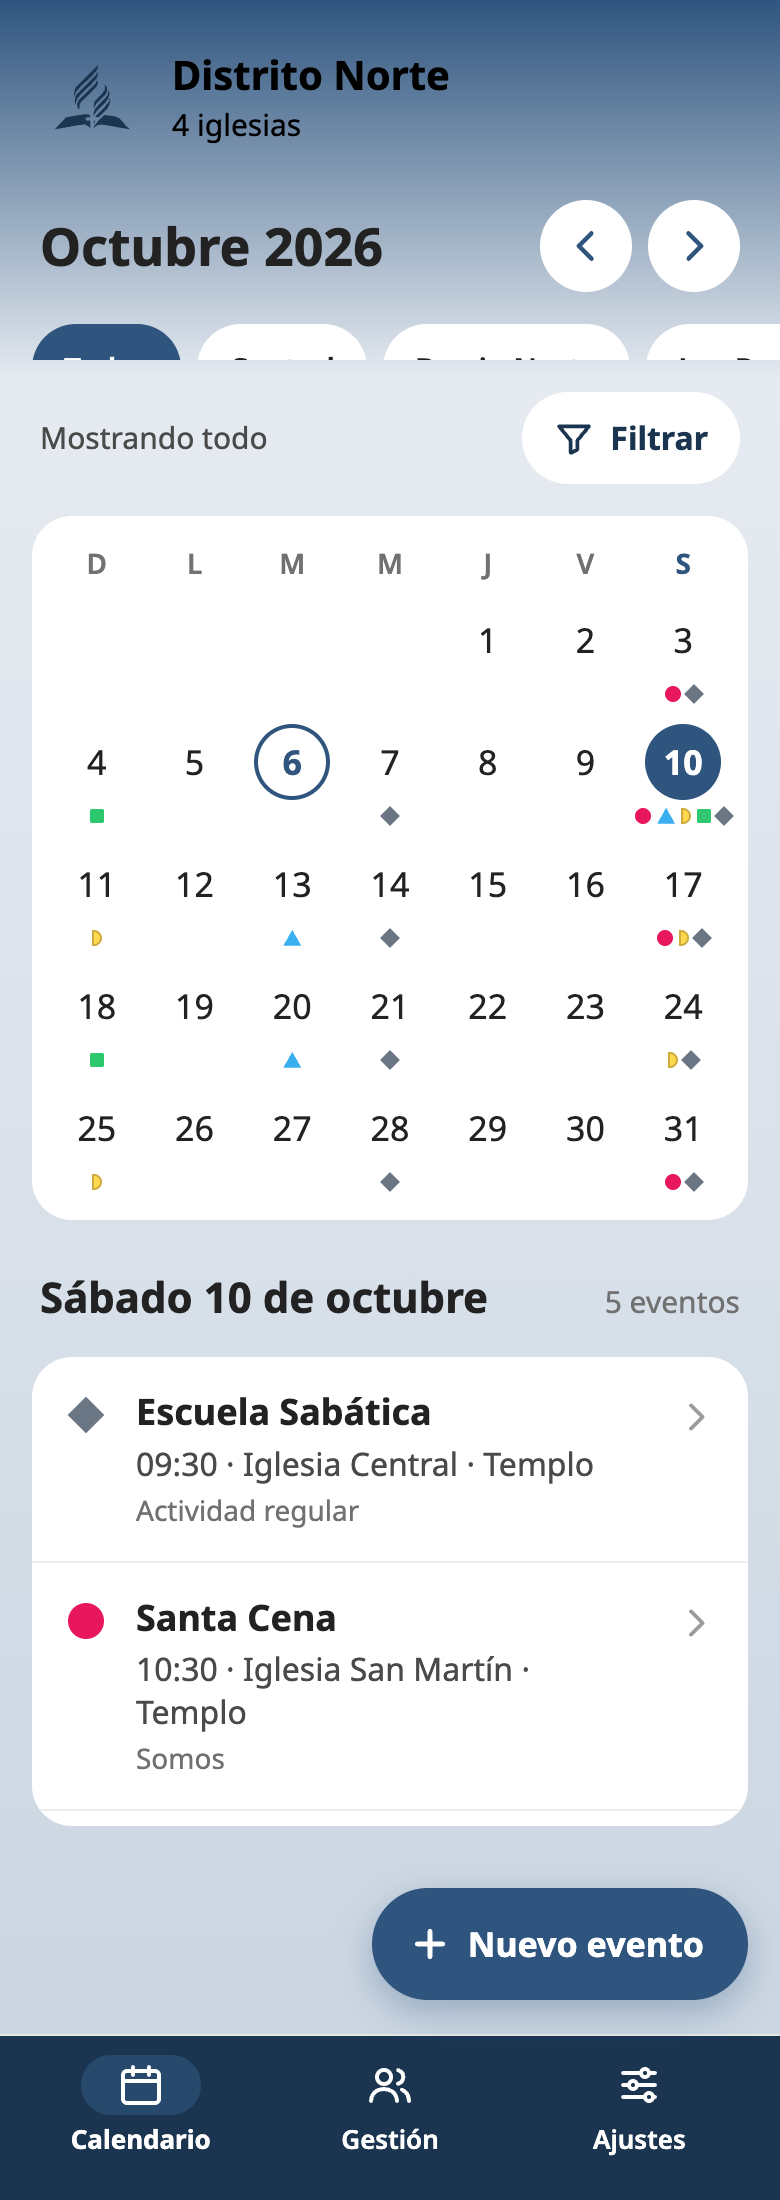
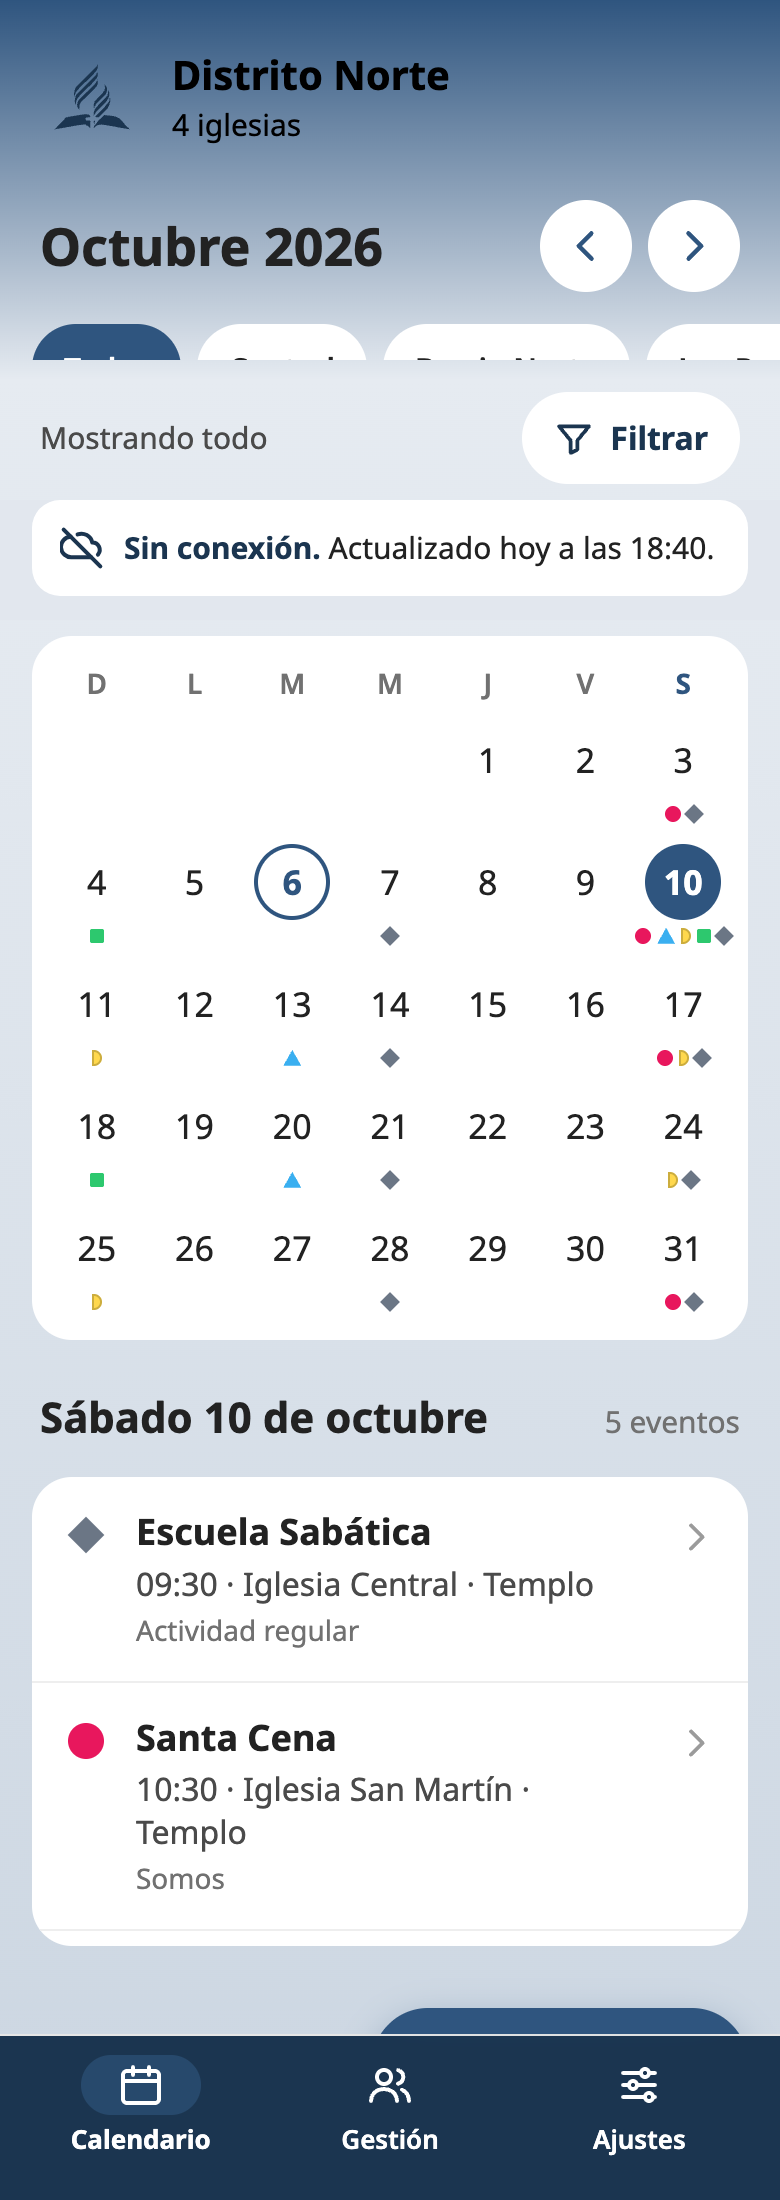
docs(diseno): add the offline line to Calendario (#39)
Show "Sin conexión. Actualizado …" above the grid only while offline,
with the date of the last successful download.

diff --git a/diseno/pantallas/04a-calendario.html b/diseno/pantallas/04a-calendario.html
@@ -61,6 +61,14 @@ body{margin:0}
       </button>
     </div>
 
+    <!-- Offline (#27): shown only without connection, with the date of the last successful download. -->
+    <sc-if value="{{ sinConexion }}" hint-placeholder-val="{{ true }}">
+      <div role="status" style="display: flex; align-items: center; gap: 10px; min-height: 48px; box-sizing: border-box; padding: 8px 14px; border-radius: 14px; background: #FFFFFF; color: #1B3550">
+        <svg width="22" height="22" viewBox="0 0 24 24" fill="none" stroke="currentColor" stroke-width="2.2" stroke-linecap="round" stroke-linejoin="round" style="flex-shrink: 0"><path d="M2 2l20 20"></path><path d="M5.8 5.8A5.5 5.5 0 0 0 6.5 17H17"></path><path d="M9.6 4.6A6 6 0 0 1 17.6 9 4 4 0 0 1 20.7 15.6"></path></svg>
+        <span style="font-size: 15px; line-height: 1.35; color: #222222"><span style="font-weight: 700; color: #1B3550">Sin conexión.</span> {{ actualizado }}</span>
+      </div>
+    </sc-if>
+
     <div style="background: #FFFFFF; border-radius: 20px; padding: 14px 8px 10px">
       <div aria-hidden="true" style="display: grid; grid-template-columns: repeat(7, minmax(0, 1fr)); padding-bottom: 6px">
         <span style="text-align: center; font-size: 14px; font-weight: 600; color: #717171">D</span>
@@ -272,6 +280,12 @@ class Component extends DCLogic {
     }));
     const ocultos = KEYS.filter((k) => off[k]).length;
     const mostrados = KEYS.filter((k) => !off[k]).map((k) => META[k].lema);
+    // Last successful download: "hoy" and "ayer" by name, older dates in full.
+    const sinConexion = st.sinConexion !== false;
+    const ultimaDescarga = { cuando: 'hoy', fecha: 'el martes 6 de octubre', hora: '18:40' };
+    const actualizado = ultimaDescarga.cuando === 'hoy' || ultimaDescarga.cuando === 'ayer'
+      ? 'Actualizado ' + ultimaDescarga.cuando + ' a las ' + ultimaDescarga.hora + '.'
+      : 'Actualizado ' + ultimaDescarga.fecha + ' a las ' + ultimaDescarga.hora + '.';
     const resumenFiltro = ocultos === 0 ? 'Mostrando todo' : (mostrados.length === 0 ? 'Nada seleccionado' : 'Mostrando: ' + mostrados.join(', '));
 
     const iglesias = ['Todas', 'Central', 'Barrio Norte', 'Las Rosas', 'San Martín'].map((n) => ({
@@ -286,6 +300,7 @@ class Component extends DCLogic {
       subtitulo: pastor ? '4 iglesias' : 'Distrito Norte',
       celdas, opciones, iglesias, eventos,
       resumenFiltro, hayFiltro: ocultos > 0, cantOcultos: ocultos,
+      sinConexion, actualizado,
       filtroAbierto: !!st.filtro,
       abrirFiltro: () => this.setState({ filtro: true }),
       cerrarFiltro: () => this.setState({ filtro: false }),
